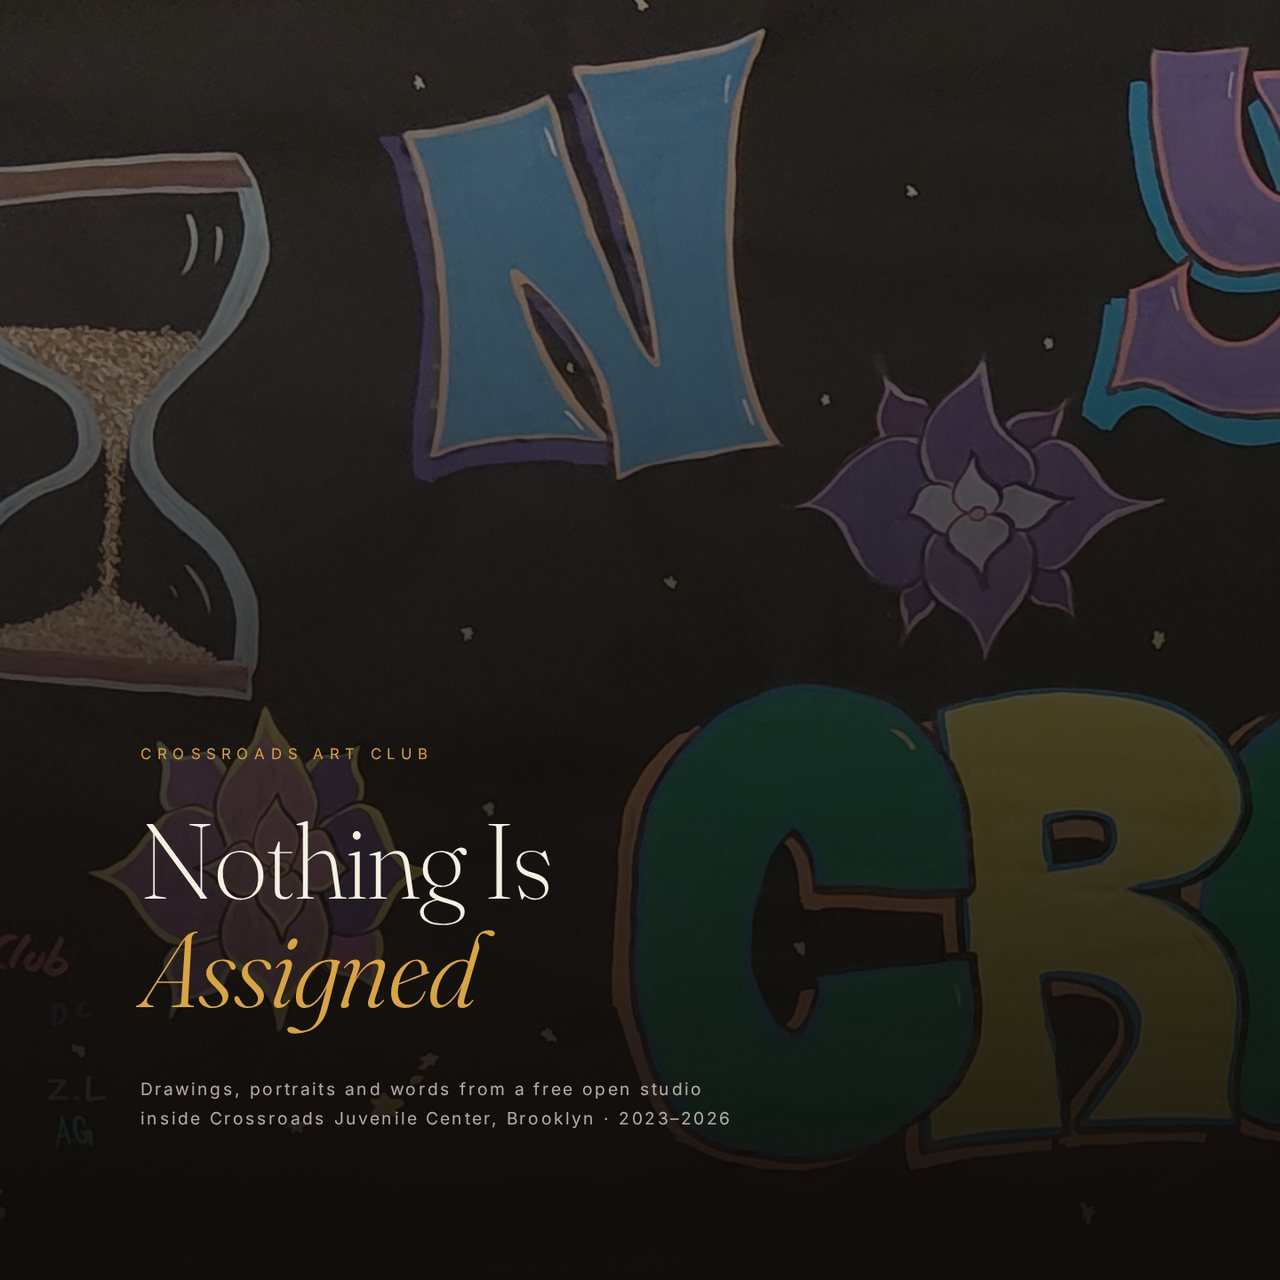
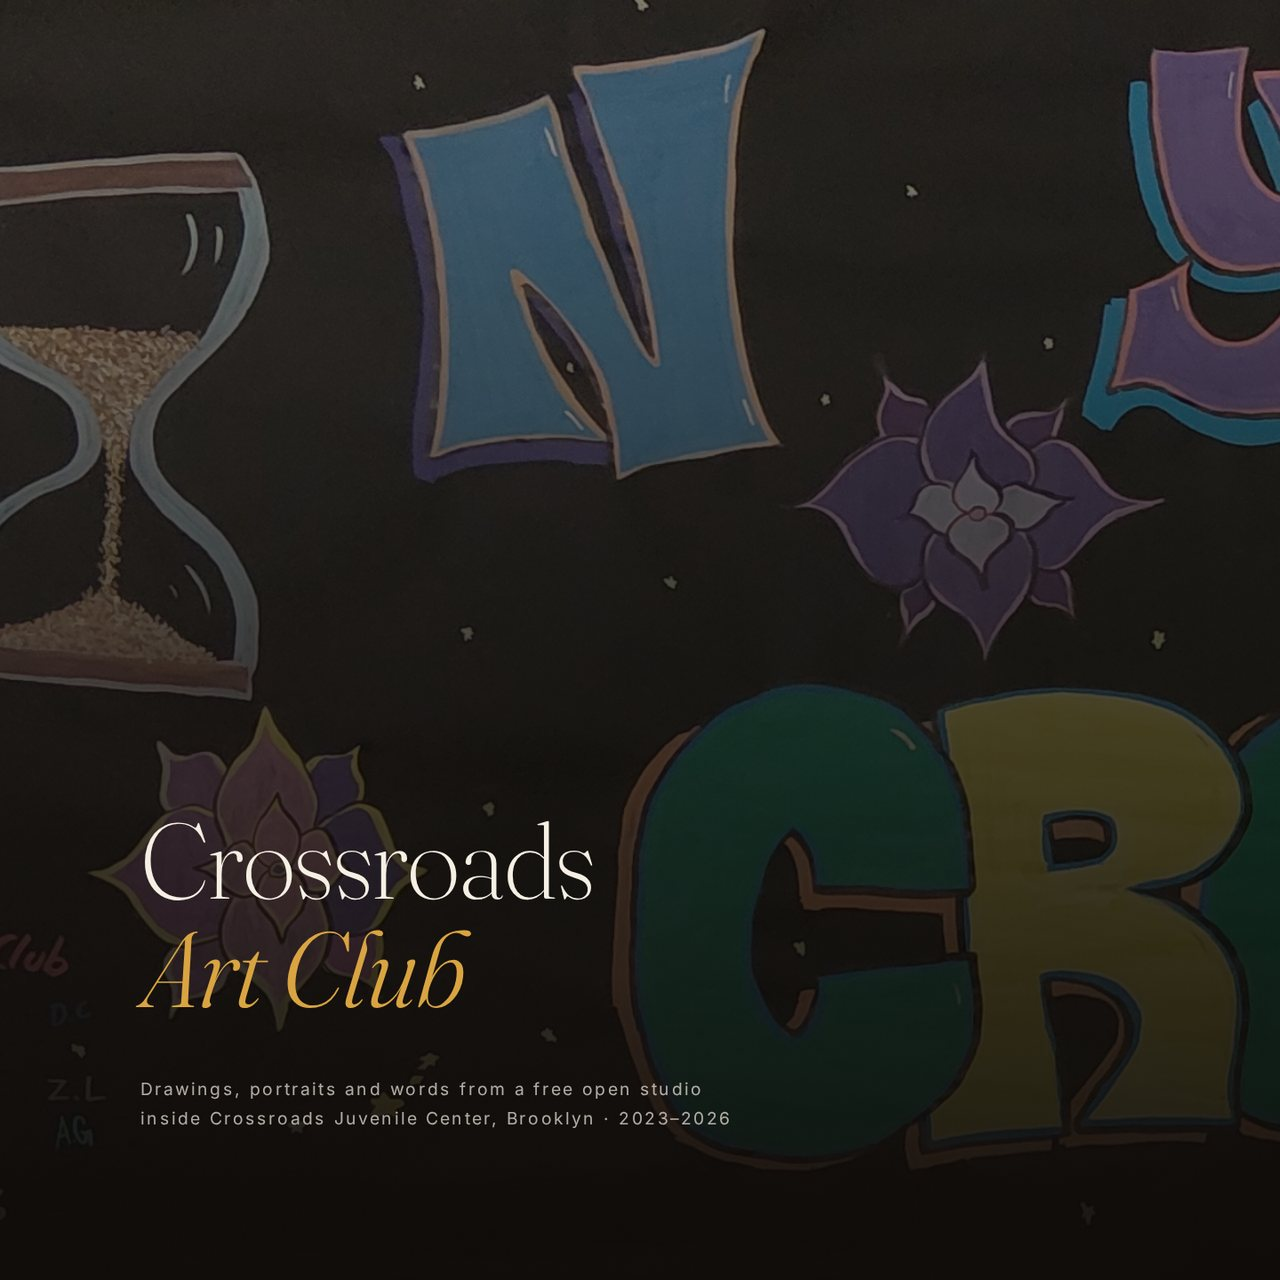
Book: drop the title from cover, chrome and pages

Changed region(s): [[0.0938, 0.625, 0.4688, 0.8125], [0.125, 0.5625, 0.2188, 0.5938], [0.25, 0.5625, 0.2812, 0.5938]]

diff --git a/book/index.html b/book/index.html
@@ -1,7 +1,7 @@
 <!doctype html><html lang="en"><head>
 <meta charset="utf-8"><meta name="viewport" content="width=device-width,initial-scale=1">
 <meta name="robots" content="noindex,nofollow">
-<title>Nothing Is Assigned — Crossroads Art Club</title>
+<title>Crossroads Art Club</title>
 <link rel="preconnect" href="https://fonts.googleapis.com">
 <link rel="preconnect" href="https://fonts.gstatic.com" crossorigin>
 <link href="https://fonts.googleapis.com/css2?family=Fraunces:ital,opsz,wght@0,9..144,200;0,9..144,300;0,9..144,400;1,9..144,200;1,9..144,300&family=Inter:wght@300;400;500&display=swap" rel="stylesheet">
@@ -47,14 +47,14 @@ button:disabled{opacity:.22;cursor:default}
 </style></head><body>
 
 <div id="loader"><div class="inner">
-  <div class="lbl">Nothing Is <em>Assigned</em></div>
-  <div class="sub">Crossroads Art Club</div>
+  <div class="lbl">Crossroads <em>Art Club</em></div>
+  <div class="sub">The book</div>
   <div class="bar"><i id="bar"></i></div>
 </div></div>
 
 <header>
-  <div class="t">Nothing Is <em>Assigned</em></div>
-  <div class="k">Crossroads Art Club</div>
+  <div class="t">Crossroads <em>Art Club</em></div>
+  <div class="k">The book</div>
   <div class="spacer"></div>
   <a href="../">Back to site</a>
 </header>
